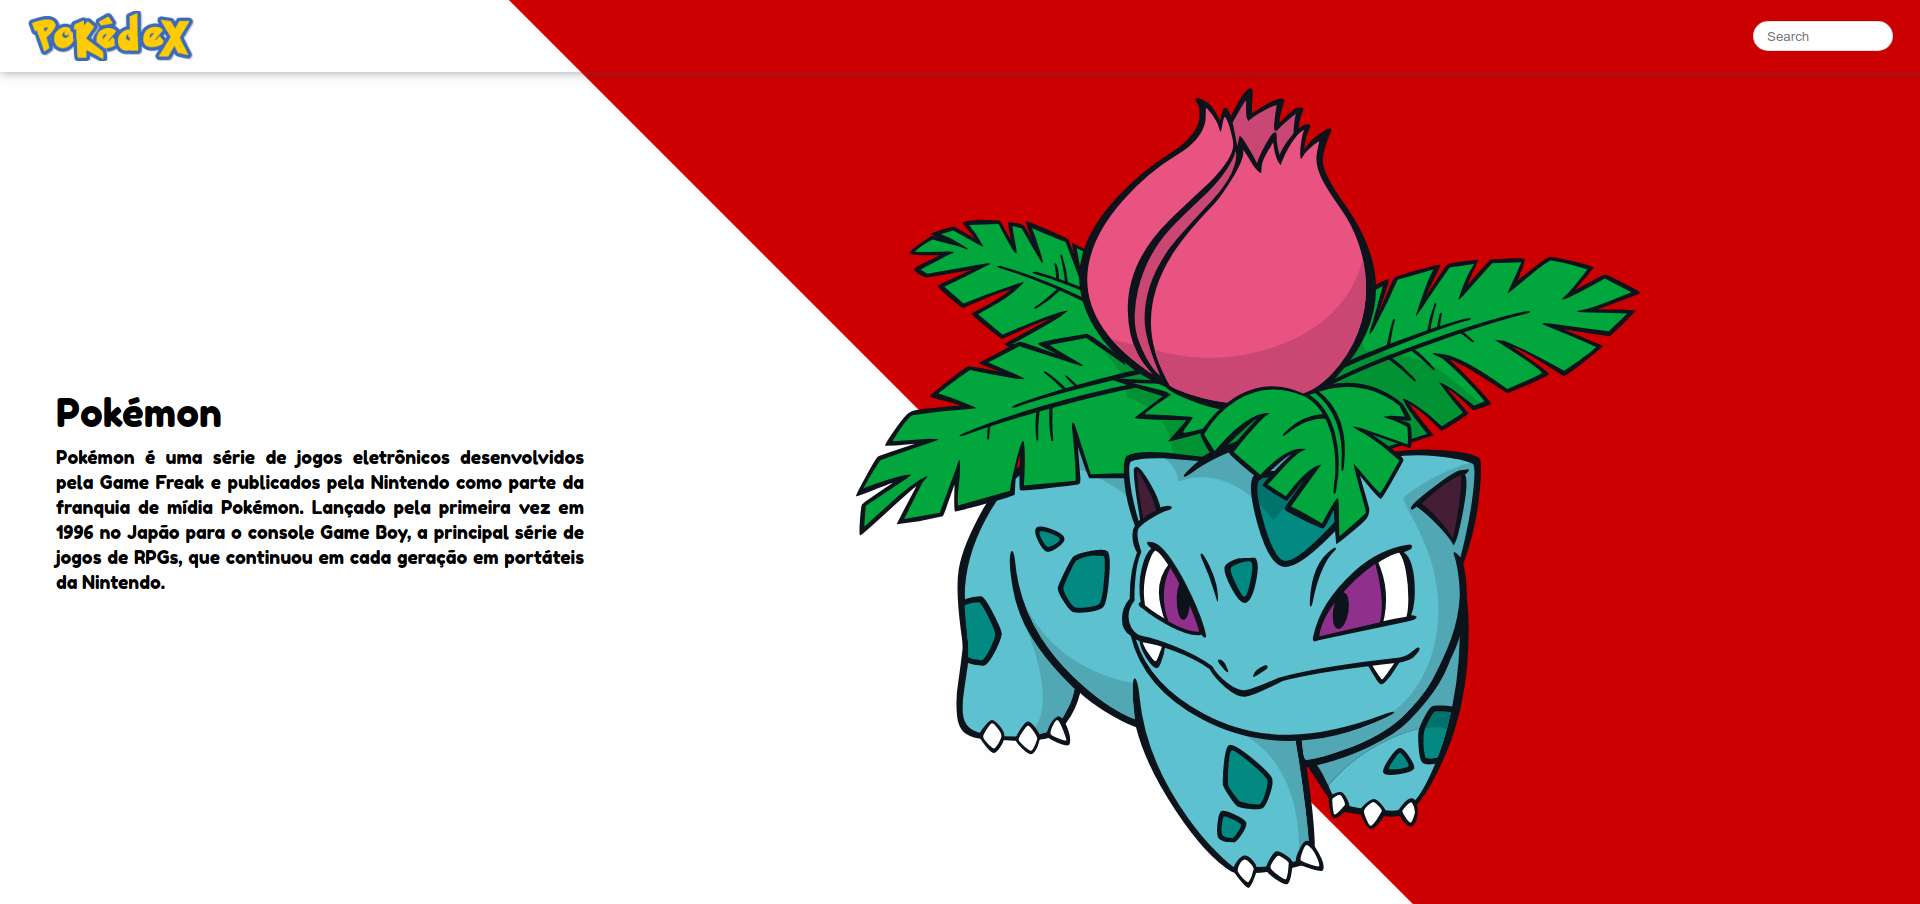
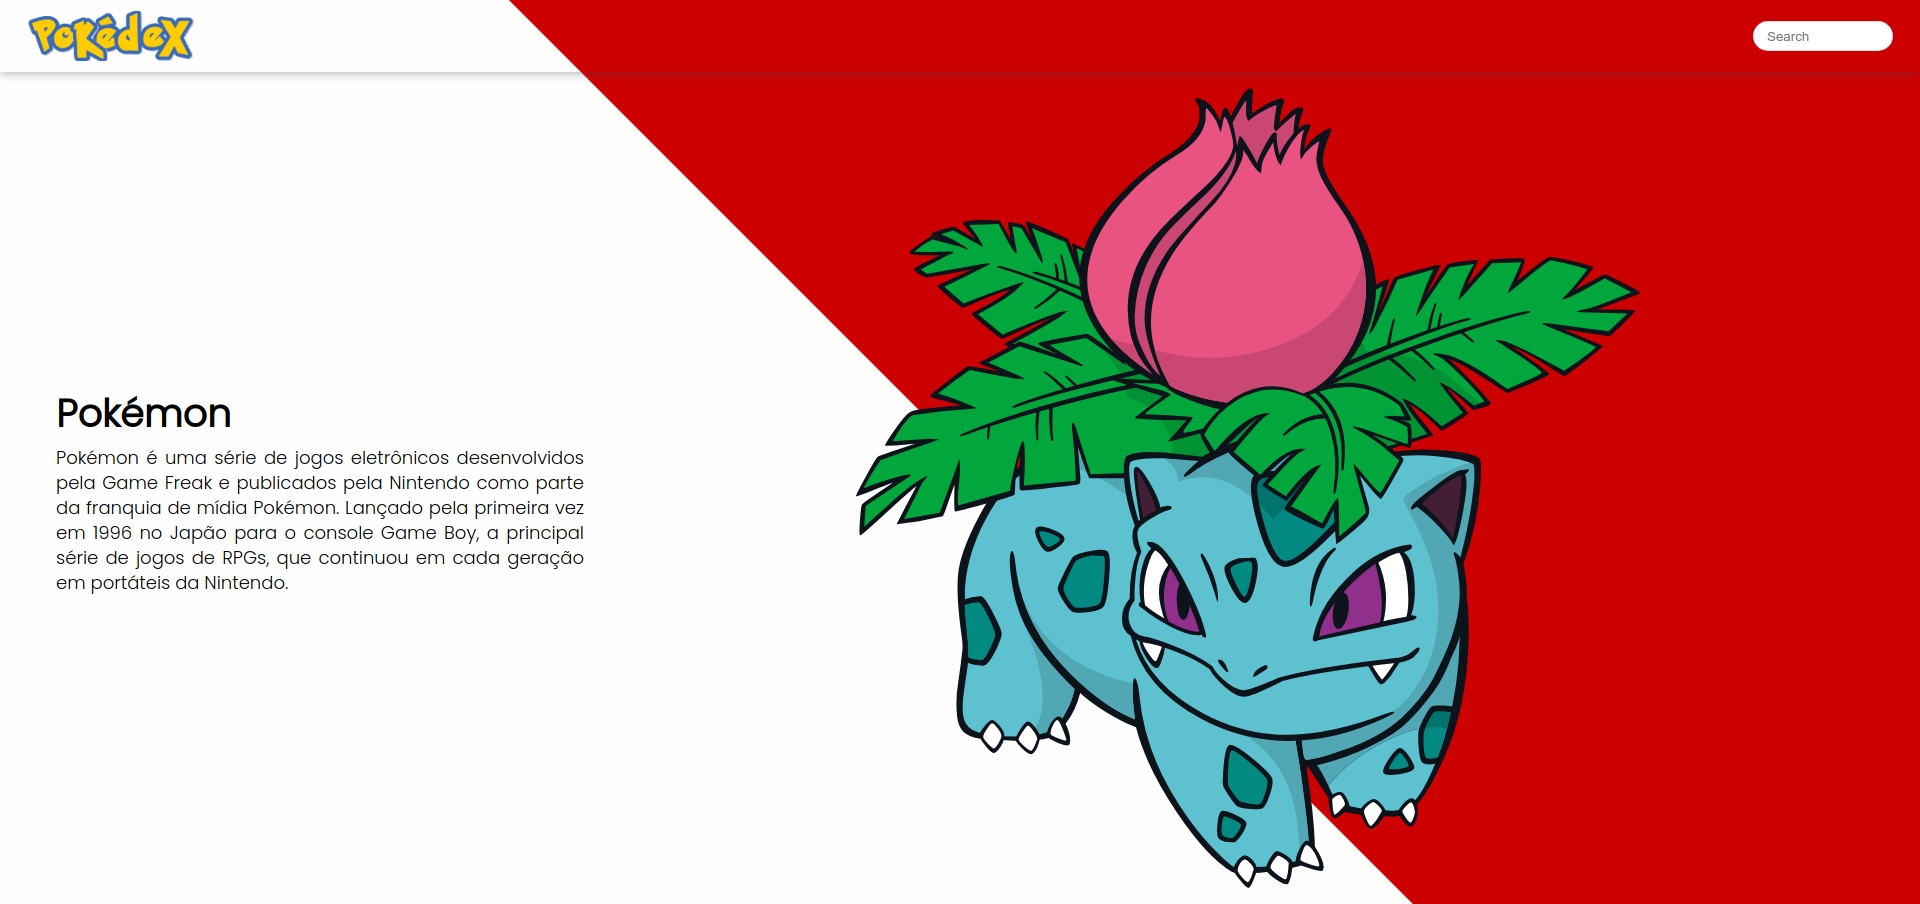
Alterando fonte

Changed region(s): [[0.0312, 0.4336, 0.3125, 0.6504]]

diff --git a/src/App.vue b/src/App.vue
@@ -8,6 +8,7 @@ export default {};
 
 <style>
 @import url("https://fonts.googleapis.com/css2?family=Fredoka+One&display=swap");
+@import url("https://fonts.googleapis.com/css2?family=Poppins:wght@300&display=swap");
 
 * {
   box-sizing: border-box;
@@ -149,6 +150,6 @@ body {
   background: #fefefe
     linear-gradient(45deg, #fefefe 50%, #ff0000, #cc0000 50.1%);
   background-attachment: fixed;
-  font-family: "Fredoka One", cursive;
+  font-family: "Poppins", sans-serif;
 }
 </style>

diff --git a/src/domain/pokemon/PokemonService.js b/src/domain/pokemon/PokemonService.js
@@ -10,7 +10,7 @@ export default class PokemonService {
         res.data.results.map((pokemon, index) => {
           pokemon.id = index + 1;
           pokemon.imageURL = `https://raw.githubusercontent.com/PokeAPI/sprites/master/sprites/pokemon/other/dream-world/${pokemon.id}.svg`;
-          //Pegando os detalhes do pokemon
+
           this.searchDetail(pokemon.id).then(res => {
             pokemon.types = res.types;
             pokemon.stats = res.stats;

diff --git a/webpack.config.js b/webpack.config.js
@@ -23,10 +23,6 @@ module.exports = {
         }
       },
       {
-        test: /\.svg$/,
-        use: ["babel-loader", "vue-svg-loader"]
-      },
-      {
         test: /\.js$/,
         loader: "babel-loader",
         exclude: /node_modules/

diff --git a/src/components/home/Home.vue b/src/components/home/Home.vue
@@ -87,9 +87,10 @@ export default {
 
 <style>
 .pokemon__description > h2 {
-  font-size: 38px;
-  margin: 0.5em 0;
   align-self: flex-start;
+  font-size: 38px;
+  font-weight: bold;
+  margin: 0.5em 0;
 }
 
 .pokemon__description > p {
